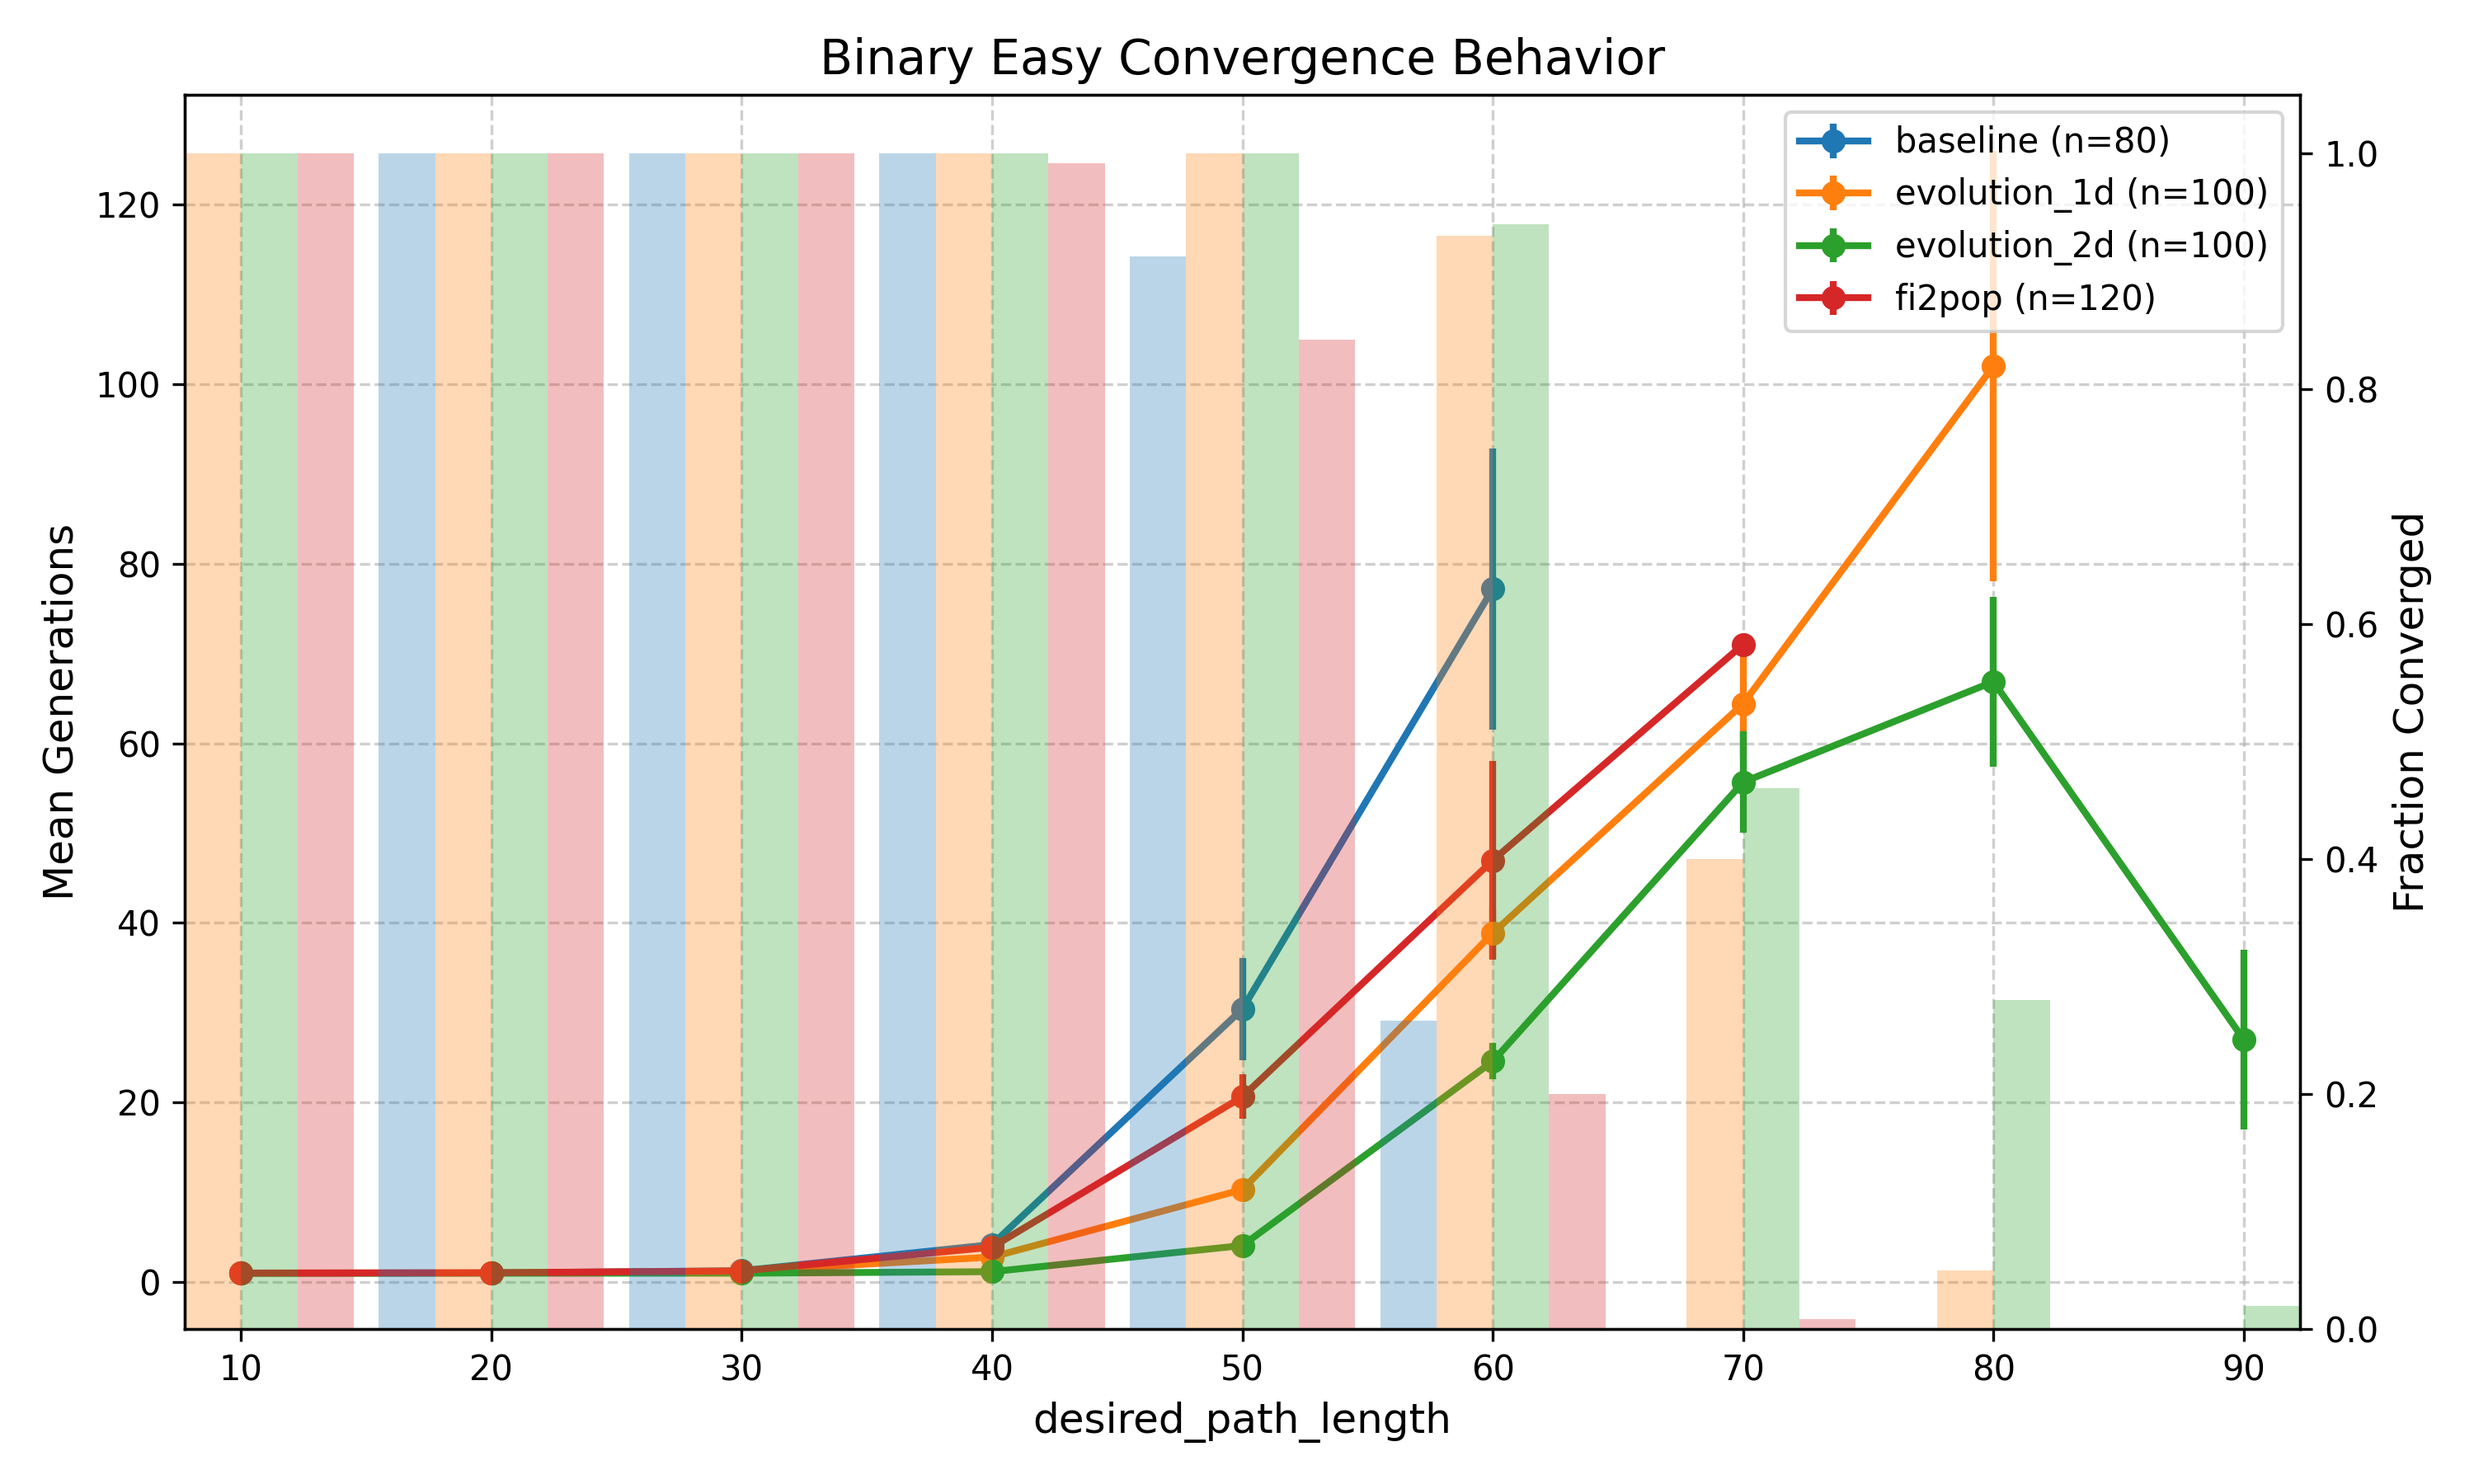
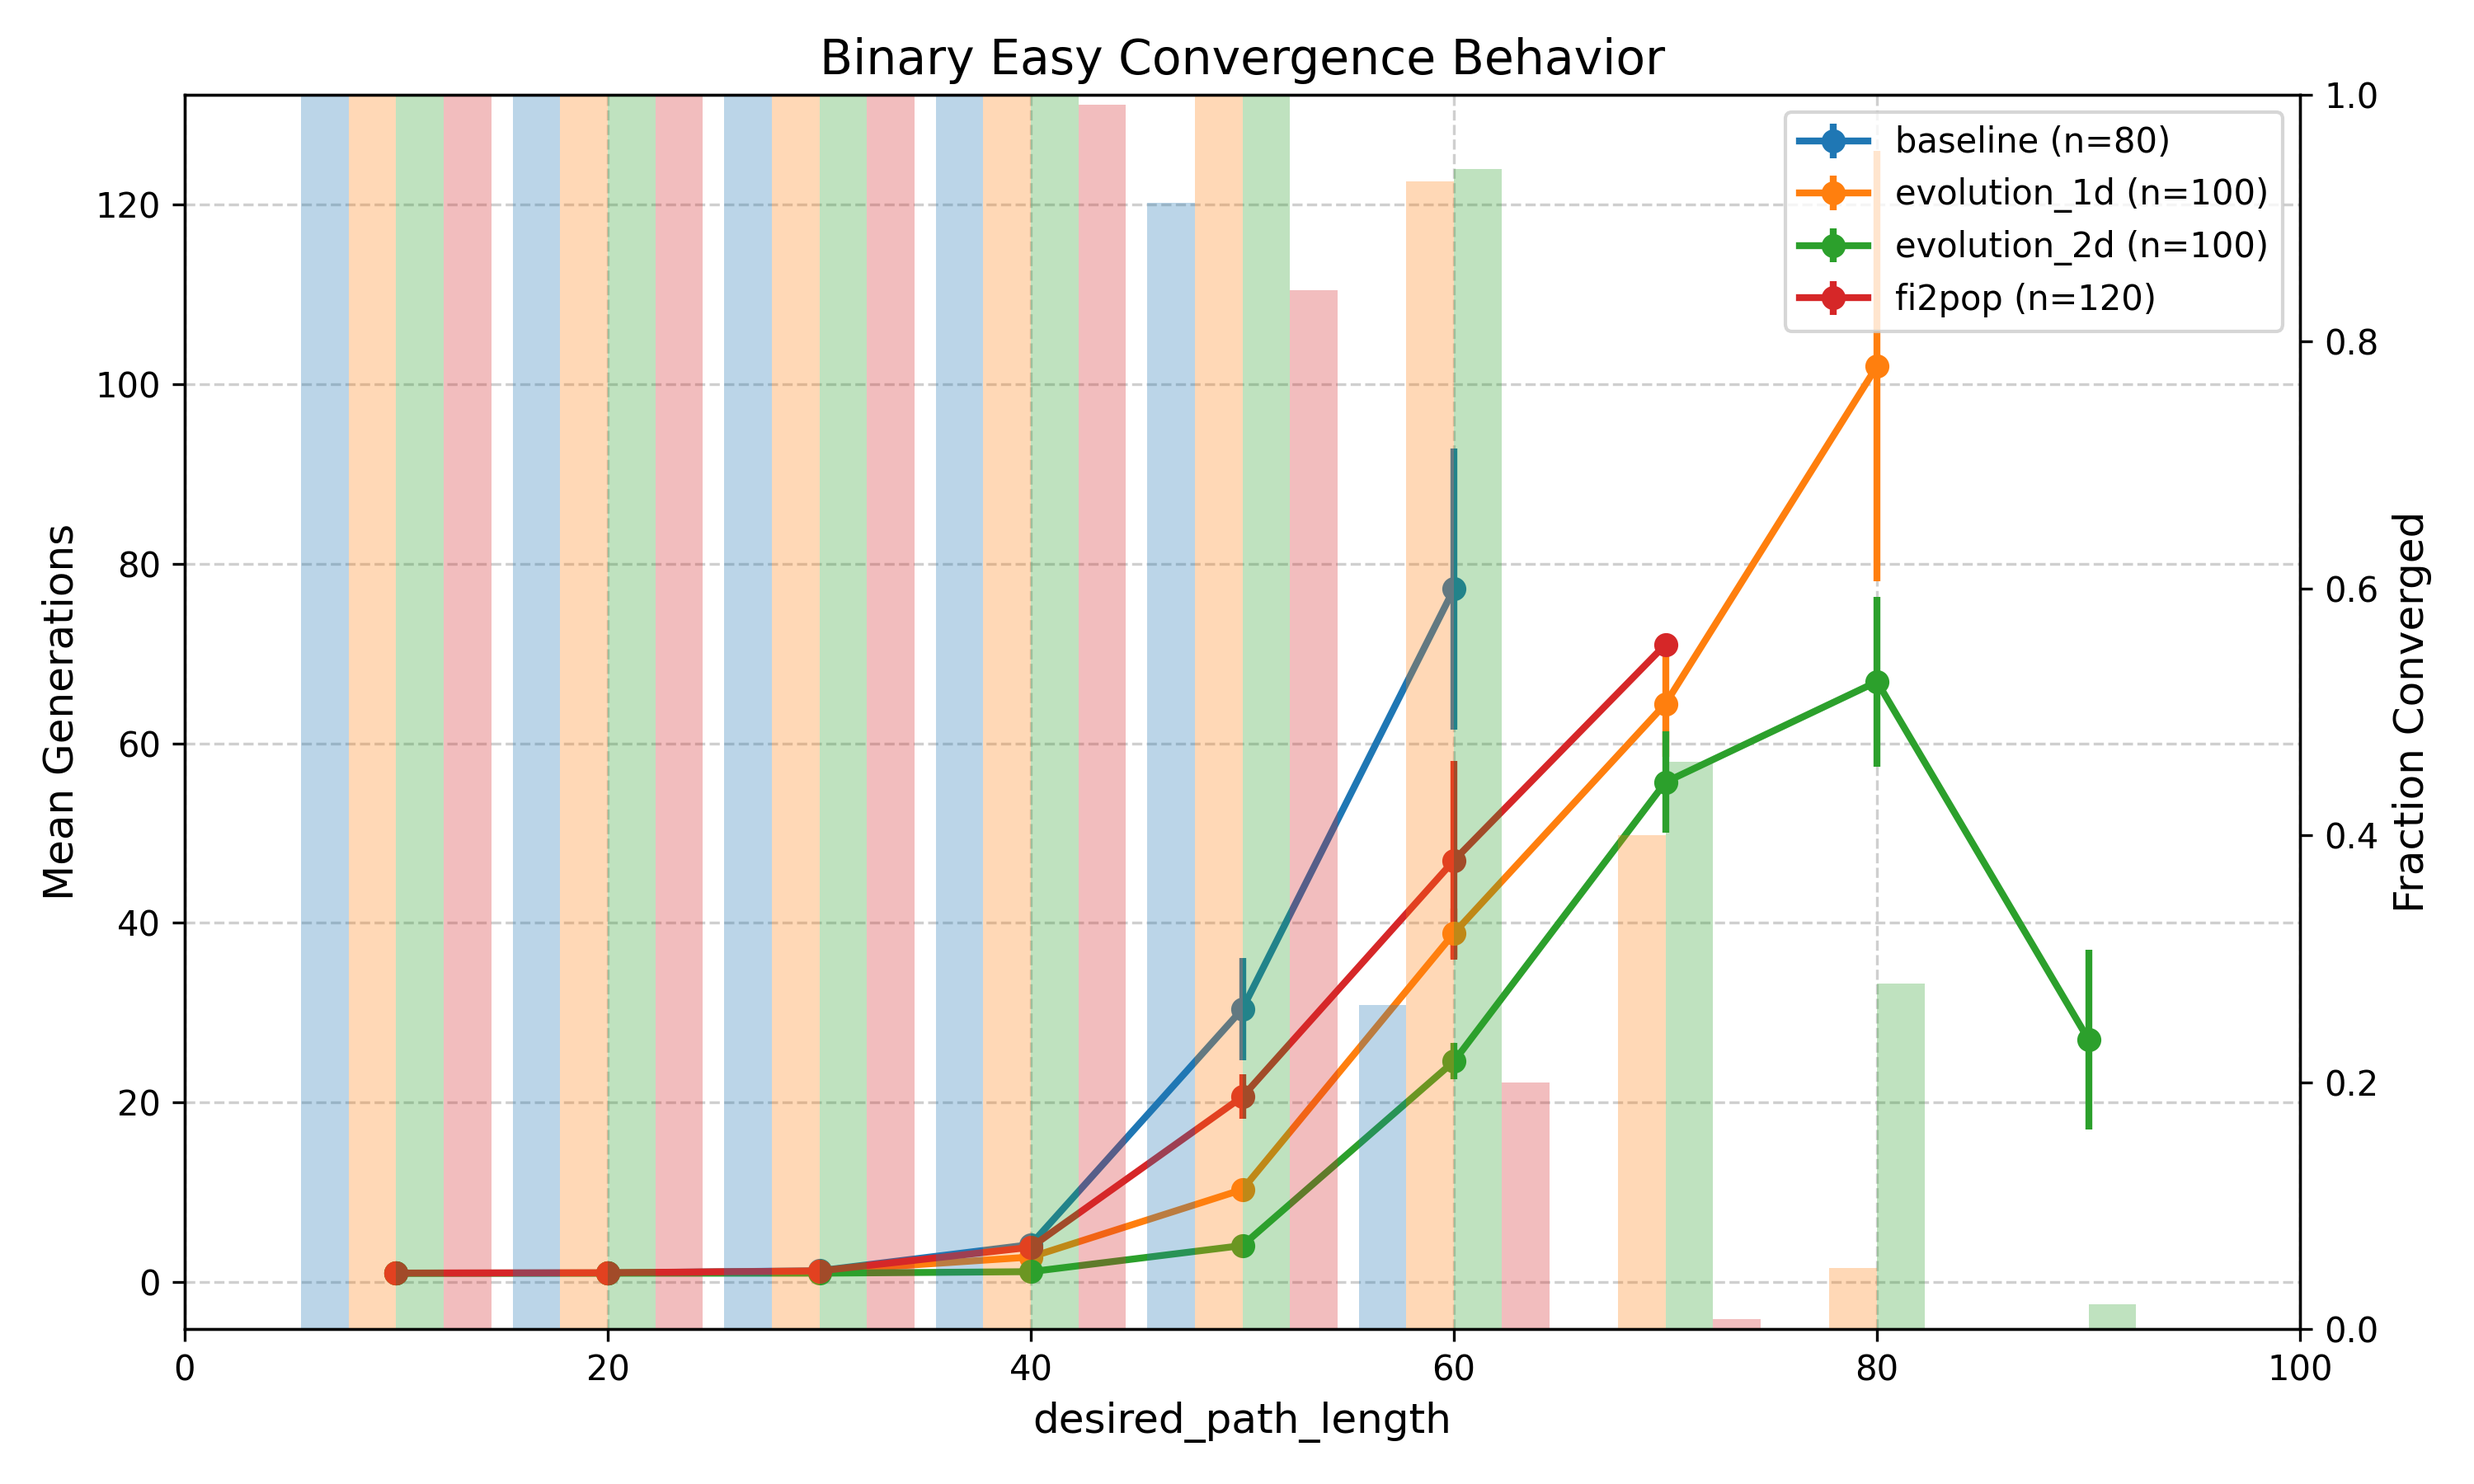
plot updates

diff --git a/plot.py b/plot.py
@@ -621,86 +621,89 @@ def plot_comparison(
     then plot all methods on a single dual-axis chart with a legend
     showing method name + sample size.
     """
-    all_stats = []
+    all_stats: list[pd.DataFrame] = []
     sample_sizes: dict[str, int] = {}
     
     # 1) Load each CSV and compute per-x stats
-    for csv_path, label in zip(csv_paths, labels):
+    for csv_path, method_name in zip(csv_paths, labels):
         raw = pd.read_csv(csv_path)
         
-        # FIX: Count samples per x-value and check for uniformity
         counts = raw.groupby(xlabel).size()
         if counts.nunique() != 1:
-            print(f"Warning: uneven sample counts for {label}: {counts.to_dict()}")
-        sample_sizes[label] = int(counts.iloc[0])
+            print(f"Warning: uneven sample counts for {method_name}: {counts.to_dict()}")
+        sample_sizes[method_name] = int(counts.iloc[0])
         
-        # Filter converged runs
         df_valid = raw.dropna(subset=["generations_to_converge"])
         stats = (
             df_valid
             .groupby(xlabel)["generations_to_converge"]
             .agg(mean="mean", std="std", successes="count")
         )
-        total = raw.groupby(xlabel)["run_index"].count().rename("total_runs")
-        stats = stats.join(total)
+        total_runs = raw.groupby(xlabel)["run_index"].count().rename("total_runs")
+        stats = stats.join(total_runs)
         stats["stderr"] = stats["std"] / np.sqrt(stats["successes"])
         stats["fraction_converged"] = stats["successes"] / stats["total_runs"]
         stats = stats.reset_index()
-        stats["method"] = label
+        stats["method"] = method_name
         all_stats.append(stats)
     
     combined = pd.concat(all_stats, ignore_index=True)
-    x_vals = sorted(combined[xlabel].unique())
-    n_methods = len(labels)
-    base_bar = 9.0
-    bar_width = base_bar / n_methods
+    x_values = sorted(combined[xlabel].unique())
+    number_of_methods = len(labels)
+    total_bar_space = 9.0
+    bar_width = total_bar_space / number_of_methods
     
-    # 2) Setup plot with consistent colors
-    fig, ax1 = plt.subplots(figsize=(10, 6))
-    ax2 = ax1.twinx()
+    # 2) Setup plot
+    fig, left_axis = plt.subplots(figsize=(10, 6))
+    right_axis = left_axis.twinx()
     
-    # Get color cycle and assign one per method
-    prop_cycle = plt.rcParams['axes.prop_cycle']
+    prop_cycle = plt.rcParams["axes.prop_cycle"]
     color_cycle = itertools.cycle(prop_cycle)
-    colors = [next(color_cycle)['color'] for _ in range(len(labels))]
+    colors = [next(color_cycle)["color"] for _ in labels]
     
     # 3) Plot each method
-    for (method, grp), color in zip(combined.groupby("method"), colors):
-        # a) Mean line with error bars
-        ax1.errorbar(
-            grp[xlabel],
-            grp["mean"],
-            yerr=grp["stderr"],
+    for (method_name, group), color in zip(combined.groupby("method"), colors):
+        # a) mean + stderr
+        left_axis.errorbar(
+            group[xlabel],
+            group["mean"],
+            yerr=group["stderr"],
             marker="o",
             linestyle="-",
-            label=f"{method} (n={sample_sizes[method]})",
+            label=f"{method_name} (n={sample_sizes[method_name]})",
             color=color,
             markersize=6,
             linewidth=2
         )
-        
-        # b) Fraction converged bars
-        idx = labels.index(method)
-        offset = (idx - (n_methods - 1) / 2) * bar_width
-        positions = grp[xlabel] + offset
-        ax2.bar(
-            positions,
-            grp["fraction_converged"],
+        # b) fraction converged
+        idx = labels.index(method_name)
+        offset = (idx - (number_of_methods - 1) / 2) * bar_width
+        bar_positions = group[xlabel] + offset
+        right_axis.bar(
+            bar_positions,
+            group["fraction_converged"],
             width=bar_width,
             alpha=0.3,
             color=color
         )
     
     # 4) Configure axes and legend
-    ax1.set_xlabel(xlabel, fontsize=12)
-    ax1.set_ylabel(y_label, fontsize=12)
-    ax2.set_ylabel("Fraction Converged", fontsize=12)
-    ax1.set_xticks(x_vals)
-    ax1.set_xlim(min(x_vals) - bar_width, max(x_vals) + bar_width)
-    ax1.grid(True, linestyle='--', alpha=0.6)
+    left_axis.set_xlabel(xlabel, fontsize=12)
+    left_axis.set_ylabel(y_label, fontsize=12)
+    right_axis.set_ylabel("Fraction Converged", fontsize=12)
     
-    ax1.legend(loc="upper right", fontsize=10)
-    ax1.set_title(title, fontsize=14)
+    # FORCE x-axis from 0 to 100
+    left_axis.set_xlim(0, 100)
+    # (optional) you can still control xticks if you like:
+    # left_axis.set_xticks(list(range(0, 101, 10)))
+    
+    # FORCE right y-axis from 0 to 1
+    right_axis.set_ylim(0, 1)
+    
+    left_axis.grid(True, linestyle="--", alpha=0.6)
+    left_axis.legend(loc="upper right", fontsize=10)
+    left_axis.set_title(title, fontsize=14)
+    
     fig.tight_layout()
     
     # 5) Save output
